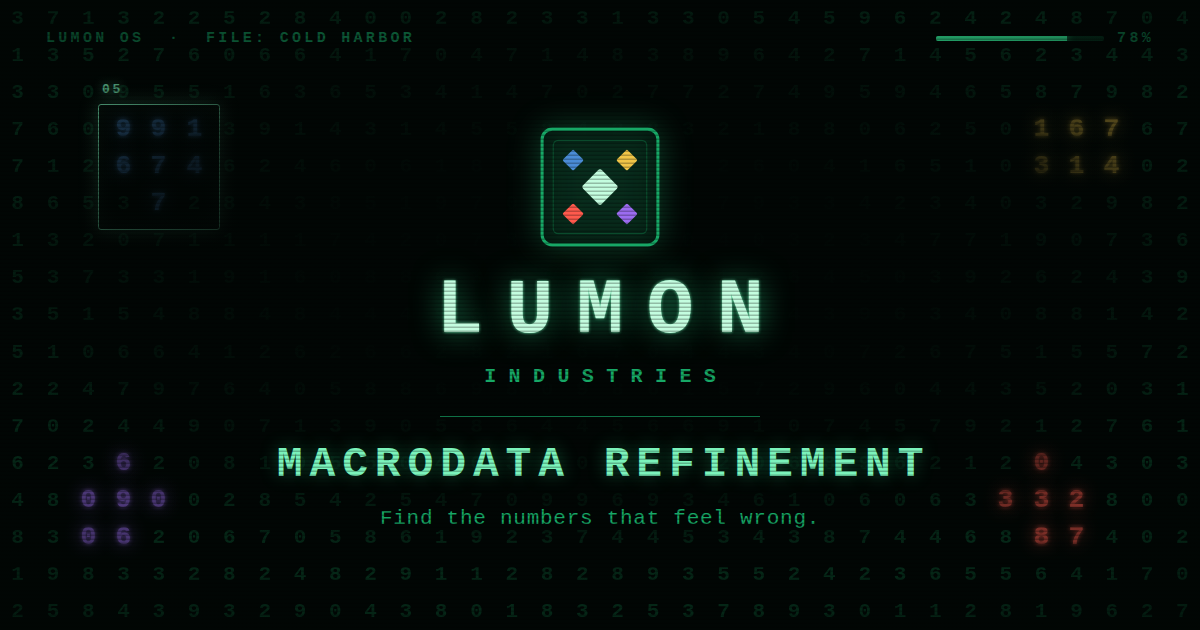
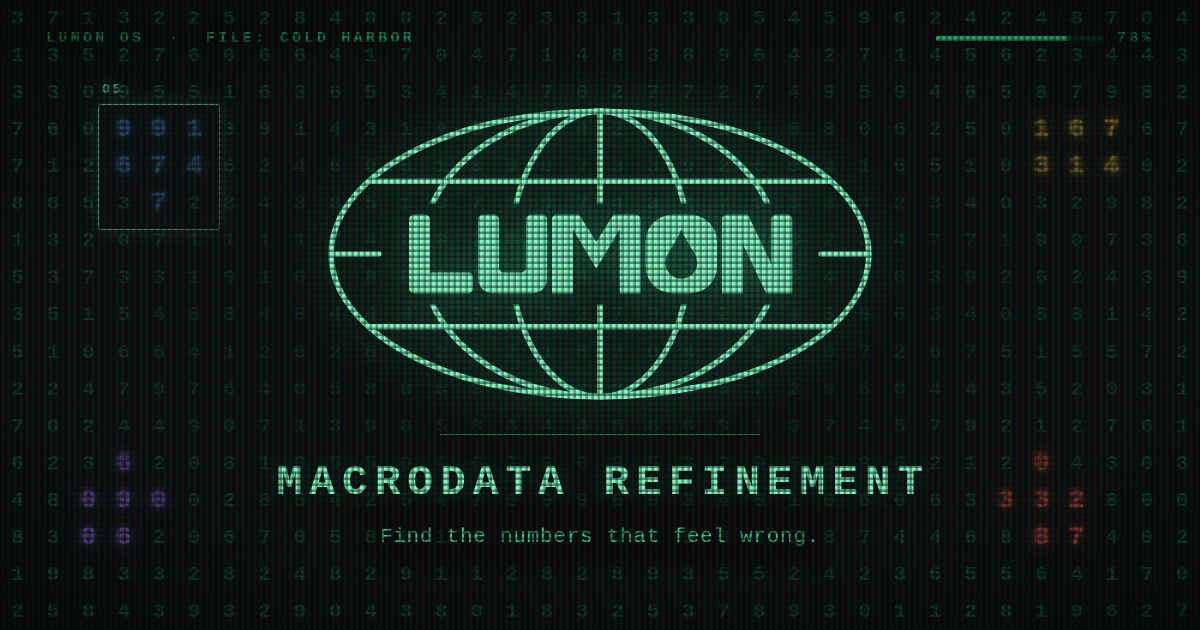
The real mark, drawn (#40)
* The real mark, drawn

You sent the reference, so the emblem is the actual Lumon mark now
rather than the badge I wrote in its register: the wireframe globe —
outer ellipse, a straight central meridian with two ellipse pairs either
side, two latitudes, and the equator left as two stubs at the rim
because the wordmark takes the middle — with LUMON set across it and the
teardrop knocked out of the O.

Drawn as vector rather than traced from a frame grab. It stays sharp at
any size and takes whatever colour the surface wants, which matters
because the card wants phosphor and the scanlines run over it — which is
how the terminal in the show wears it too.

It is wordmark and emblem in one, so the card no longer sets LUMON and
INDUSTRIES underneath it. MACRODATA REFINEMENT keeps the line under the
rule. The scrim went deeper, because a wider subject leaves the strap
line sitting on bare number field.

The geometry lives in exactly one place, `tools/lumon-mark.html`, which
opens in a browser so it can be worked on by looking at it. `node
tools/og.mjs` derives `public/lumon.svg` from it and re-renders the card,
and a data invariant fails if the served asset and the workshop file have
drifted apart — two copies of a logo is one copy and a thing that is
slightly wrong.

305/305 end-to-end, 8/8 audio, data invariants green.

Claude-Session: https://claude.ai/code/session_017q5M2gH1cDT8Zfhj3hbvFD

* Give the card a shadow mask, not just scanlines
[…]

diff --git a/tools/og.html b/tools/og.html
@@ -49,8 +49,8 @@
         place-items: center;
         font-size: 21px;
         font-weight: 700;
-        color: var(--phos-700);
-        opacity: 0.62;
+        color: var(--phos-600);
+        opacity: 0.72;
       }
       /* A cluster that has been probed and is agitated: its temper's colour,
          at full strength, lifted off the grid. */
@@ -83,12 +83,17 @@
         text-shadow: 0 0 10px rgba(123, 243, 187, 0.7);
       }
 
-      /* A scrim under the title, so the type never fights the field. */
+      /* A scrim under the title, so the type never fights the field.
+         Much lighter than it was: at near-opaque it did its job by
+         deleting the board, and the board is the reason anyone knows what
+         the card is a picture of. The type gets its legibility from its
+         own dark halo below instead, which is local to the letters rather
+         than spread over the middle third of the picture. */
       #scrim {
         position: absolute;
         inset: 0;
         background:
-          radial-gradient(58% 50% at 50% 44%, rgba(1, 6, 4, 0.985) 0%, rgba(1, 6, 4, 0.95) 42%, rgba(1, 6, 4, 0.72) 72%, rgba(1, 6, 4, 0) 100%);
+          radial-gradient(64% 58% at 50% 49%, rgba(1, 6, 4, 0.78) 0%, rgba(1, 6, 4, 0.68) 50%, rgba(1, 6, 4, 0.34) 78%, rgba(1, 6, 4, 0) 100%);
       }
 
       #plate {
@@ -98,36 +103,18 @@
         flex-direction: column;
         align-items: center;
         justify-content: center;
-        padding-top: 22px;
+        padding-top: 18px;
         text-align: center;
       }
-      #emblem {
-        width: 130px;
-        height: 130px;
-        filter: drop-shadow(0 0 16px rgba(47, 214, 138, 0.45));
-      }
-      /* The mark itself: the biggest thing on the card, because it is the
-         thing a glance is meant to land on. */
-      .wordmark {
-        margin-top: 20px;
-        font-size: 78px;
-        font-weight: 700;
-        line-height: 1;
-        letter-spacing: 0.3em;
-        text-indent: 0.3em;
-        color: var(--phos-200);
-        text-shadow: 0 0 3px var(--phos-300), 0 0 30px rgba(47, 214, 138, 0.6);
-      }
-      .eyebrow {
-        margin-top: 15px;
-        font-size: 20px;
-        font-weight: 700;
-        letter-spacing: 0.62em;
-        text-indent: 0.62em;
-        color: var(--phos-500);
+      /* Wide, because the mark is wide. It is the thing a glance is meant
+         to land on, so it gets nearly half the card. */
+      #mark {
+        width: 560px;
+        filter: drop-shadow(0 0 26px rgba(47, 214, 138, 0.6));
       }
       .rule {
-        margin-top: 28px;
+        box-shadow: 0 0 10px 3px rgba(1, 6, 4, 0.9);
+        margin-top: 26px;
         width: 320px;
         height: 1px;
         background: var(--phos-600);
@@ -138,15 +125,26 @@
         font-weight: 700;
         line-height: 1.04;
         letter-spacing: 0.16em;
-        text-indent: 0.17em;
+        text-indent: 0.16em;
         color: var(--phos-300);
-        text-shadow: 0 0 18px rgba(47, 214, 138, 0.4);
+        text-shadow:
+          0 0 6px rgba(1, 6, 4, 1),
+          0 0 16px rgba(1, 6, 4, 0.98),
+          0 0 30px rgba(1, 6, 4, 0.9),
+          0 0 20px rgba(47, 214, 138, 0.45);
       }
       .tag {
         margin-top: 20px;
         font-size: 21px;
         letter-spacing: 0.035em;
-        color: var(--phos-500);
+        color: var(--phos-400);
+        /* The thinnest type on the card, so it carries the deepest
+           halo — it is the one line the digits behind it can swallow. */
+        text-shadow:
+          0 0 5px rgba(1, 6, 4, 1),
+          0 0 11px rgba(1, 6, 4, 1),
+          0 0 20px rgba(1, 6, 4, 0.95),
+          0 0 34px rgba(1, 6, 4, 0.8);
       }
 
       /* The terminal's own furniture, along the top. Quiet enough that it
@@ -160,7 +158,8 @@
         font-size: 15px;
         font-weight: 700;
         letter-spacing: 0.22em;
-        color: var(--phos-600);
+        color: var(--phos-500);
+        text-shadow: 0 0 6px rgba(1, 6, 4, 1), 0 0 14px rgba(1, 6, 4, 0.9);
       }
       #meter { display: flex; align-items: center; gap: 13px; }
       #meterTrack {
@@ -177,15 +176,48 @@
 
       /* CRT glass, last and over everything — the same scanlines and
          vignette the terminal itself wears. */
+      /* The glass: scanlines crossed with an aperture grille, which is
+         what makes the bright parts break into phosphor dots rather than
+         just get striped.
+
+         Coarser than a real tube on purpose. A 1px pitch is correct at
+         1200px wide and turns to grey mush the moment a chat bubble
+         scales the card to a third of that, which is the size it is
+         actually looked at. Six pixels here is about two there — still a
+         texture rather than a haze. */
       #glass {
         position: absolute;
         inset: 0;
-        background: repeating-linear-gradient(
-          to bottom,
-          rgba(0, 0, 0, 0) 0px,
-          rgba(0, 0, 0, 0) 2px,
-          rgba(0, 0, 0, 0.26) 3px,
-          rgba(0, 0, 0, 0.26) 4px
+        background-image:
+          repeating-linear-gradient(
+            to bottom,
+            rgba(0, 0, 0, 0) 0px,
+            rgba(0, 0, 0, 0) 3px,
+            rgba(0, 0, 0, 0.44) 4px,
+            rgba(0, 0, 0, 0.44) 6px
+          ),
+          repeating-linear-gradient(
+            to right,
+            rgba(0, 0, 0, 0) 0px,
+            rgba(0, 0, 0, 0) 3px,
+            rgba(0, 0, 0, 0.36) 4px,
+            rgba(0, 0, 0, 0.36) 6px
+          );
+      }
+      /* And the triads themselves, tinting each surviving dot. Faint —
+         this is the difference between "a screen" and "a novelty filter". */
+      #triads {
+        position: absolute;
+        inset: 0;
+        mix-blend-mode: screen;
+        background-image: repeating-linear-gradient(
+          to right,
+          rgba(255, 40, 40, 0.09) 0px,
+          rgba(255, 40, 40, 0.09) 2px,
+          rgba(40, 255, 120, 0.09) 2px,
+          rgba(40, 255, 120, 0.09) 4px,
+          rgba(60, 110, 255, 0.09) 4px,
+          rgba(60, 110, 255, 0.09) 6px
         );
       }
       #vignette {
@@ -201,35 +233,9 @@
     <div id="scrim"></div>
 
     <div id="plate">
-      <!--
-        An emblem written for this branch, not the show's own mark: a
-        corporate badge in the same 1980s institutional register, carrying
-        the four tempers around a refined core. It says what the four bins
-        along the foot used to say, at a size that survives a chat bubble —
-        four coloured marks read where four labelled boxes do not.
-      -->
-      <svg id="emblem" viewBox="0 0 128 128" aria-hidden="true">
-        <!-- A plate, four tempers at its corners, one refined datum in
-             the middle. Rings read as an atom; a plate reads as a badge
-             screwed to a wall, which is the register this whole terminal
-             is written in. The diamond is the shape the floor already
-             counts a chain in. -->
-        <rect x="7" y="7" width="114" height="114" rx="10"
-              fill="rgba(4,26,16,0.55)" stroke="#17a866" stroke-width="3" />
-        <rect x="18" y="18" width="92" height="92" rx="5"
-              fill="none" stroke="#0a4a2c" stroke-width="1.25" />
-        <g>
-          <rect x="30" y="30" width="15" height="15" rx="1.5" transform="rotate(45 37.5 37.5)" fill="#4a8cd6" />
-          <rect x="83" y="30" width="15" height="15" rx="1.5" transform="rotate(45 90.5 37.5)" fill="#f0c548" />
-          <rect x="83" y="83" width="15" height="15" rx="1.5" transform="rotate(45 90.5 90.5)" fill="#9b6cf0" />
-          <rect x="30" y="83" width="15" height="15" rx="1.5" transform="rotate(45 37.5 90.5)" fill="#ff5a4d" />
-        </g>
-        <rect x="51" y="51" width="26" height="26" rx="2.5" transform="rotate(45 64 64)" fill="#c3fddf" />
-      </svg>
-
-      <div class="wordmark">LUMON</div>
-      <div class="eyebrow">INDUSTRIES</div>
-
+      <!-- The Lumon mark itself, which is wordmark and emblem in one, so
+           the card no longer sets LUMON separately underneath it. -->
+      <img id="mark" src="../public/lumon.svg" alt="" />
       <div class="rule"></div>
       <h1>MACRODATA REFINEMENT</h1>
       <div class="tag">Find the numbers that feel wrong.</div>
@@ -244,6 +250,7 @@
     </div>
 
     <div id="glass"></div>
+    <div id="triads"></div>
     <div id="vignette"></div>
 
     <script>

diff --git a/tools/lumon-mark.html b/tools/lumon-mark.html
@@ -1,0 +1,78 @@
+<!doctype html>
+<!--
+  The Lumon mark, drawn as vector.
+
+  A wide wireframe globe — outer ellipse, a straight central meridian with
+  two ellipse pairs either side, two latitude lines, and the equator left
+  as two stubs at the rim because the wordmark takes the middle. LUMON is
+  set across it in a soft geometric grotesque with the O solid and a
+  teardrop knocked out of it.
+
+  Drawn rather than traced from a bitmap so it stays sharp at any size.
+  This is the one place the geometry lives: open it in a browser to work
+  on it, then run `node tools/og.mjs`, which rebuilds `public/lumon.svg`
+  from it and re-renders the link card.
+-->
+<html lang="en">
+  <head>
+    <meta charset="UTF-8" />
+    <style>
+      body { margin: 0; background: #010604; display: grid; place-items: center; height: 100vh; }
+      svg { width: 720px; color: #7bf3bb; }
+    </style>
+  </head>
+  <body>
+    <svg id="lumon-mark" viewBox="0 0 400 220" fill="none" aria-label="Lumon Industries">
+      <defs>
+        <!-- The globe's lines stop where the wordmark begins. On the real
+             mark the equator survives only as two stubs at the rim for
+             exactly this reason. -->
+        <mask id="behind-wordmark">
+          <rect width="400" height="220" fill="#fff" />
+          <rect x="55" y="74" width="290" height="72" fill="#000" />
+        </mask>
+        <!-- The teardrop inside the O, as a hole rather than a shape, so
+             whatever is behind the mark shows through it. -->
+        <mask id="drop">
+          <rect width="400" height="220" fill="#fff" />
+          <path
+            d="M266 90 C 270 101 279 110 279 117 a 13 13 0 1 1 -26 0 c 0 -7 9 -16 13 -27 z"
+            fill="#000"
+          />
+        </mask>
+      </defs>
+
+      <g stroke="currentColor" stroke-width="4" stroke-linecap="round">
+        <!-- The silhouette. -->
+        <ellipse cx="200" cy="110" rx="192" ry="102" />
+        <!-- What the wordmark does not cover. -->
+        <g mask="url(#behind-wordmark)">
+          <ellipse cx="200" cy="110" rx="128" ry="102" />
+          <ellipse cx="200" cy="110" rx="64" ry="102" />
+          <line x1="200" y1="8" x2="200" y2="212" />
+        </g>
+        <line x1="35" y1="58" x2="365" y2="58" />
+        <line x1="35" y1="162" x2="365" y2="162" />
+        <!-- The equator, as much of it as the wordmark leaves. -->
+        <line x1="10" y1="110" x2="42" y2="110" />
+        <line x1="358" y1="110" x2="390" y2="110" />
+      </g>
+
+      <g transform="translate(200 110) scale(0.88) translate(-200 -110)">
+      <g fill="currentColor" mask="url(#drop)">
+        <!-- L -->
+        <path d="M45 82 a4 4 0 0 1 4 -4 h9 a4 4 0 0 1 4 4 v43 h31 a4 4 0 0 1 4 4 v9 a4 4 0 0 1 -4 4 h-44 a4 4 0 0 1 -4 -4 z" />
+        <!-- U -->
+        <path d="M101 82 a4 4 0 0 1 4 -4 h9 a4 4 0 0 1 4 4 v39 a4 4 0 0 0 4 4 h14 a4 4 0 0 0 4 -4 v-39 a4 4 0 0 1 4 -4 h9 a4 4 0 0 1 4 4 v48 a12 12 0 0 1 -12 12 h-32 a12 12 0 0 1 -12 -12 z" />
+        <!-- M. The middle stops short of the baseline, which is most of
+             what makes this mark recognisable at a glance. -->
+        <path d="M161 142 v-60 a4 4 0 0 1 4 -4 h18 l14 22 l14 -22 h18 a4 4 0 0 1 4 4 v60 h-17 v-52 l-19 32 l-19 -32 v52 z" />
+        <!-- O, solid; the drop is knocked out of it by the mask. -->
+        <rect x="237" y="78" width="58" height="64" rx="22" ry="22" />
+        <!-- N -->
+        <path d="M299 142 v-60 a4 4 0 0 1 4 -4 h17 l19 40 v-36 a4 4 0 0 1 4 -4 h9 a4 4 0 0 1 4 4 v60 h-21 l-19 -40 v40 z" />
+      </g>
+      </g>
+    </svg>
+  </body>
+</html>

diff --git a/test/data.ts b/test/data.ts
@@ -1041,6 +1041,22 @@ console.log(`\n── the link card ${"─".repeat(44)}`);
       ok(`the card is a ${width}x${height} PNG, ${(png.length / 1024).toFixed(0)}KB`);
     }
 
+    // The mark is drawn in one place and derived into the asset the site
+    // serves. Two copies of a logo is one copy and a thing that is
+    // slightly wrong, so this is what says they still agree.
+    const workshop = readFileSync("tools/lumon-mark.html", "utf8");
+    const drawn = workshop
+      .slice(workshop.indexOf('<svg id="lumon-mark"'), workshop.indexOf("</svg>") + 6)
+      .replaceAll("currentColor", "#7bf3bb")
+      .replace('<svg id="lumon-mark" viewBox', '<svg xmlns="http://www.w3.org/2000/svg" viewBox');
+    const served = existsSync("public/lumon.svg")
+      ? readFileSync("public/lumon.svg", "utf8")
+      : "";
+    if (!served) fail("public/lumon.svg is missing — run `node tools/og.mjs`");
+    else if (!served.includes(drawn)) {
+      fail("public/lumon.svg is stale — run `node tools/og.mjs`");
+    } else ok("the mark the site serves is the mark the workshop file draws");
+
     const html = readFileSync("index.html", "utf8");
     const declared = (name: string) =>
       html.match(new RegExp(`(?:property|name)="${name}"[^>]*content="([^"]*)"`, "s"))?.[1] ??

diff --git a/index.html b/index.html
@@ -39,7 +39,7 @@
     <meta property="og:image:height" content="630" />
     <meta
       property="og:image:alt"
-      content="The Lumon Industries wordmark under a badge holding four diamonds — Woe, Frolic, Dread and Malice — around a refined one, over a field of green numbers on black with four clusters agitated in those same colors."
+      content="The Lumon Industries globe in phosphor green over a field of numbers on black, with four clusters agitated in the colors of Woe, Frolic, Dread and Malice, and the words MACRODATA REFINEMENT beneath it."
     />
     <meta name="twitter:card" content="summary_large_image" />
     <meta name="twitter:title" content="LUMON OS — Macrodata Refinement" />

diff --git a/docs/DESIGN_SYSTEM.md b/docs/DESIGN_SYSTEM.md
@@ -191,16 +191,22 @@ it, one of them boxed by a marquee, and the logo on a scrim of black.
 
 **Everything on it has to survive being 340px wide**, which is about what
 a phone gives a link card. The four bins were on it for one draft and came
-off: four labelled boxes are four grey smudges at that size. What replaced
-them is the emblem — a plate with the four tempers as diamonds at its
-corners around one refined datum — which says the same thing in shapes
-instead of words and still reads when the words do not.
+off: four labelled boxes are four grey smudges at that size.
 
-**The mark is written for this branch.** It is an austere institutional
-badge in the same register as the show's, not a copy of the show's own
-trademark, and the diamond is the shape the dance floor already counts a
-chain in. Rings were tried first and read as an atom; a plate reads as
-something screwed to a wall, which is what this terminal is.
+**The Lumon mark carries it instead.** `public/lumon.svg` — the wireframe
+globe with LUMON set across it and the teardrop knocked out of the O.
+Drawn as vector rather than traced from a frame grab, so it is sharp at
+any size and tintable: on the card it is phosphor green with the
+scanlines running over it, which is how the terminal in the show wears it
+too. It is wordmark and emblem in one, so the card sets no LUMON of its
+own underneath it.
+
+The geometry lives in exactly one place, `tools/lumon-mark.html`, which
+opens in a browser so it can be worked on by looking at it. `node
+tools/og.mjs` derives `public/lumon.svg` from it and re-renders the card;
+a data invariant fails if the served asset and the workshop file have
+drifted apart. Two copies of a logo is one copy and a thing that is
+slightly wrong.
 
 Committed as a file rather than generated at build time: a scraper fetches
 it from a URL, so it has to exist at a stable one on both hosts, and a
